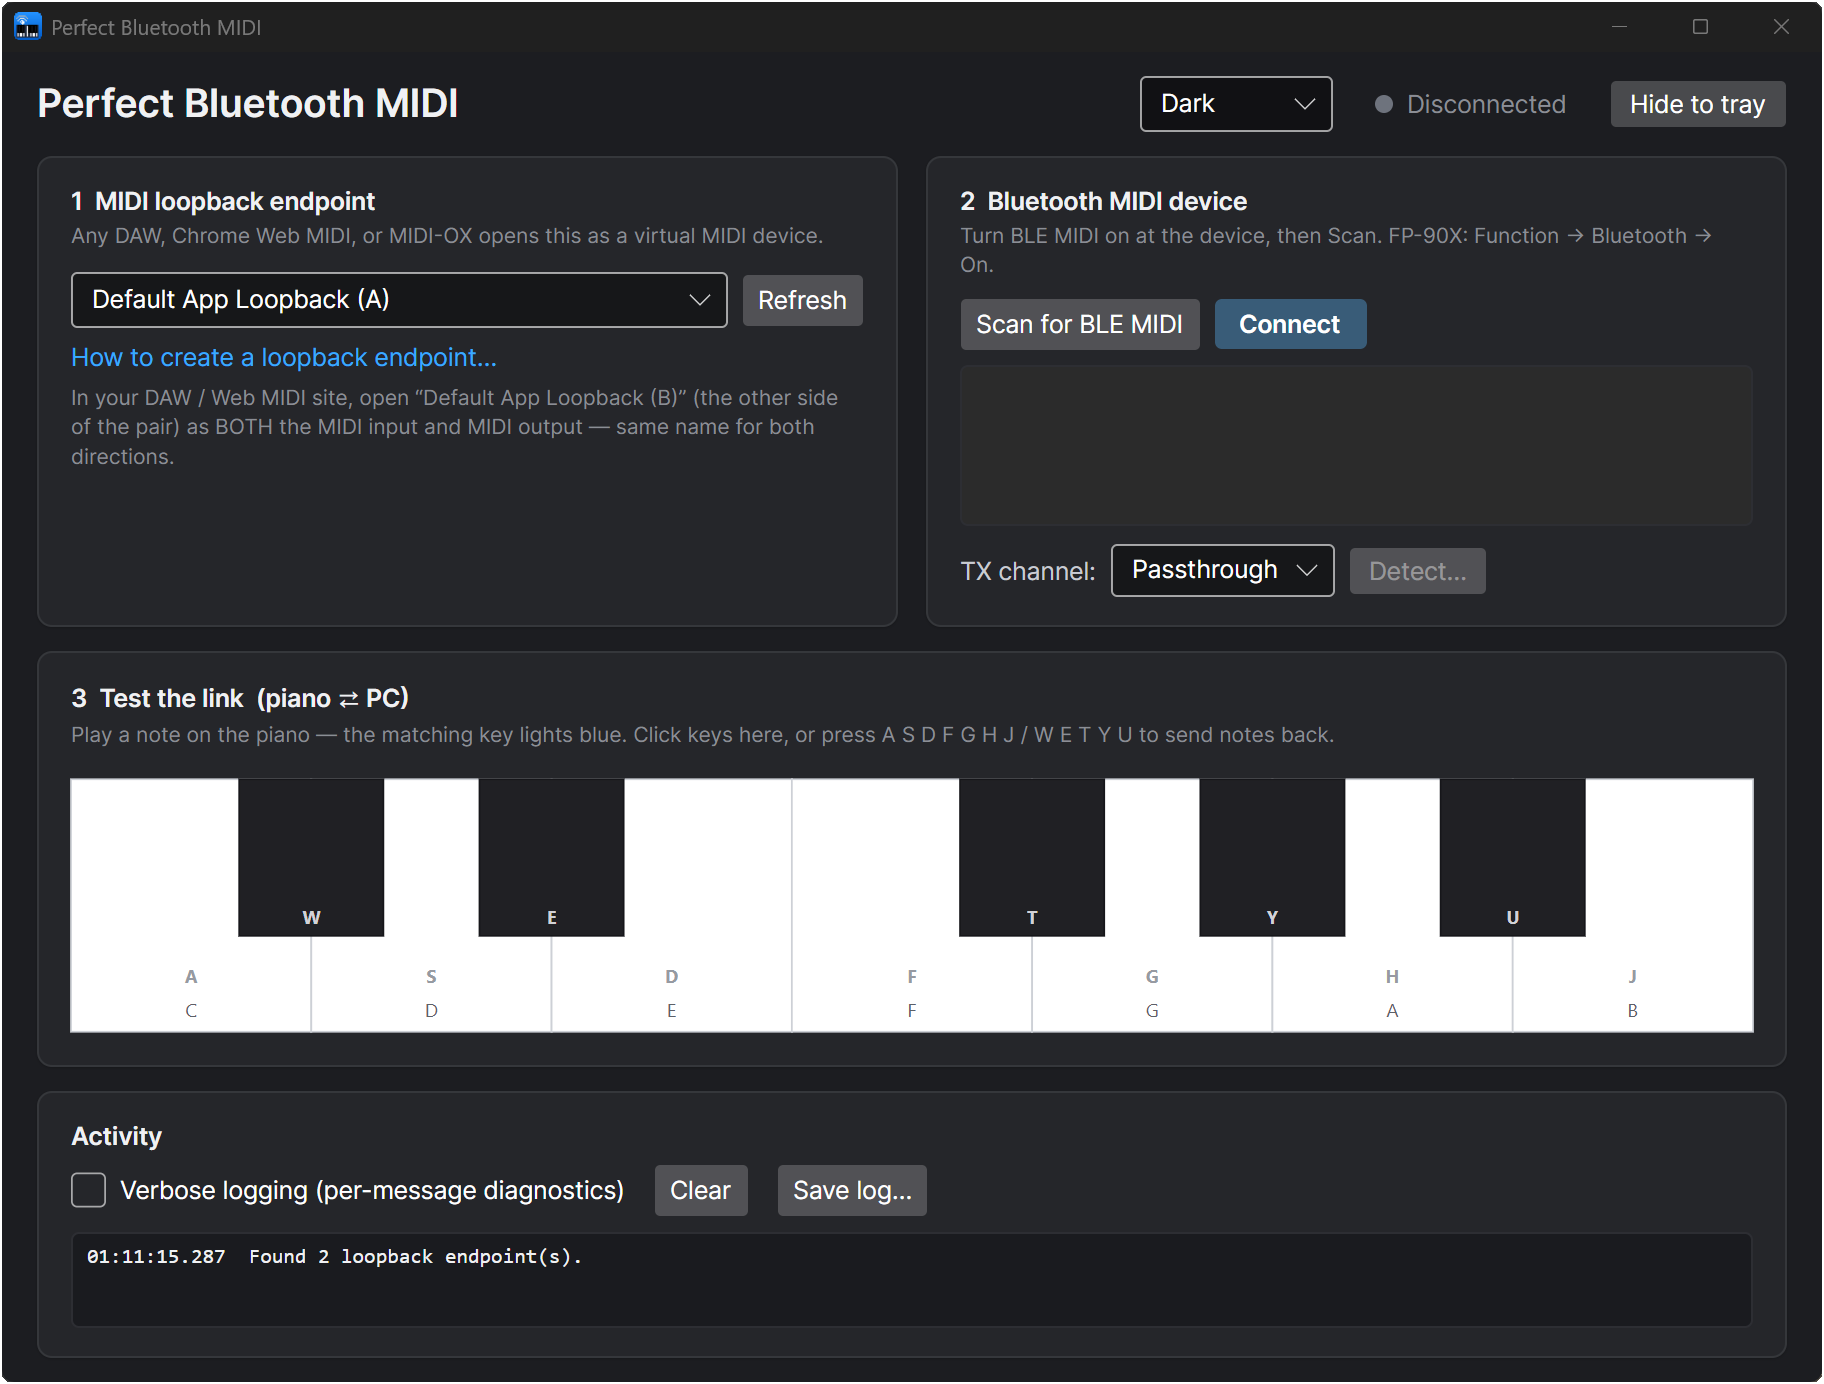
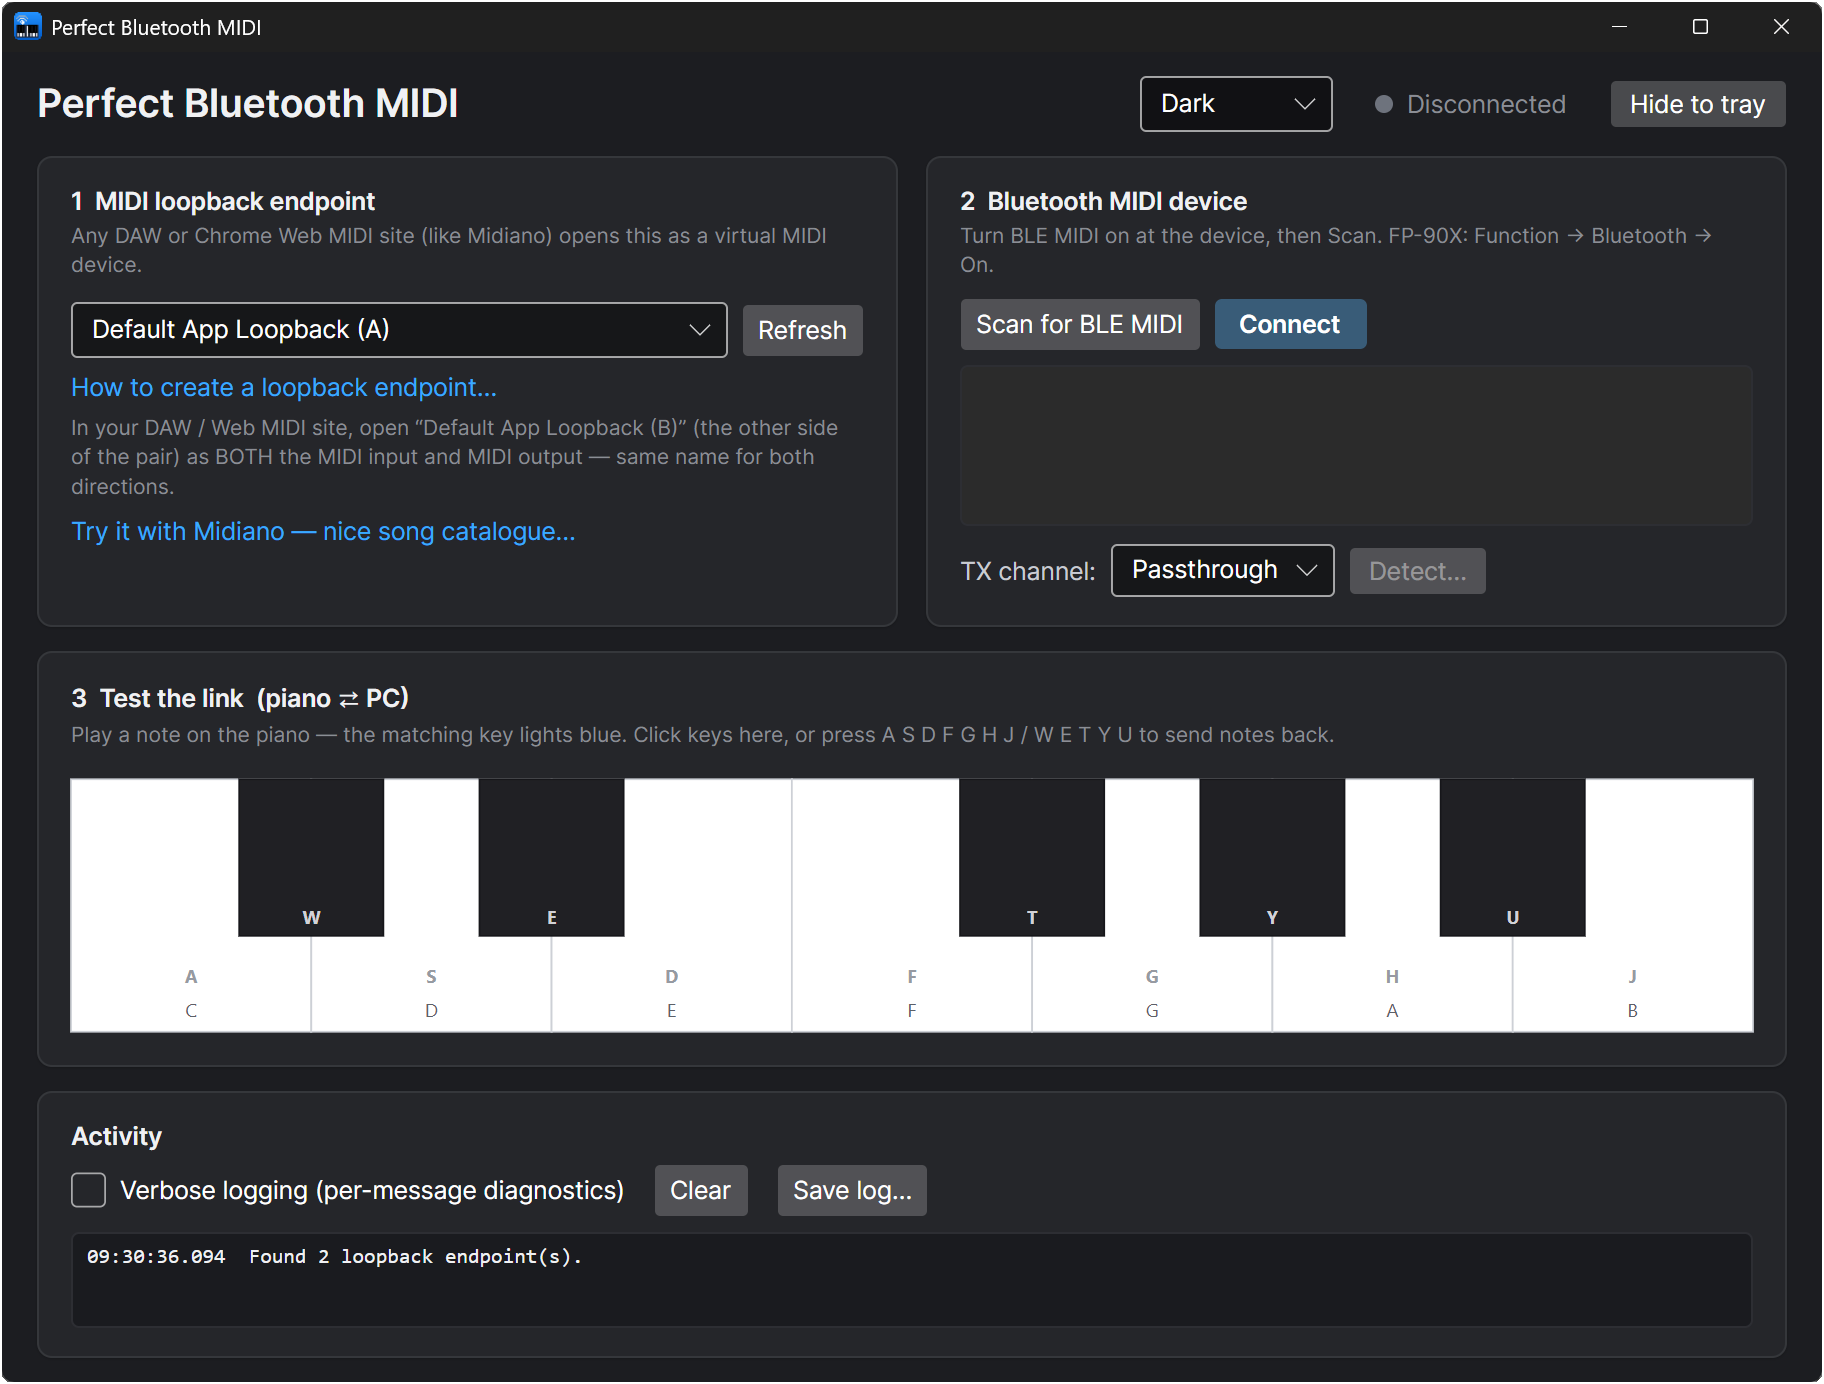
Sync README changes to site + app; re-snap screenshots

diff --git a/docs/index.html b/docs/index.html
@@ -294,8 +294,8 @@
     <p class="lede">
       A tiny Windows app that bridges a Bluetooth LE MIDI keyboard
       (Roland FP-90X, WIDI&nbsp;Master, CME, Yamaha&nbsp;MD-BT01, …) into the new
-      Windows MIDI Services stack — so any DAW, any Chrome Web&nbsp;MIDI site, any
-      MIDI-OX session can use it as if it were wired.
+      Windows MIDI Services stack — so any DAW or Chrome Web&nbsp;MIDI site
+      (like <a href="https://app.midiano.com/" target="_blank" rel="noopener">Midiano</a>) can use it as if it were wired.
     </p>
     <div class="cta-row">
       <a class="btn btn-primary" href="https://github.com/mayerwin/Perfect-Bluetooth-MIDI-For-Windows/releases/latest">
@@ -411,7 +411,7 @@
     <div class="highlight" style="margin-top:28px;">
       <h3>Try it with <a href="https://app.midiano.com/" target="_blank" rel="noopener">Midiano</a> <span class="badge">tip</span></h3>
       <p>
-        <a href="https://app.midiano.com/" target="_blank" rel="noopener">app.midiano.com</a> is a polished Chrome Web MIDI app with a huge searchable catalogue of songs that play themselves on your piano. Open it in Chrome / Edge, pick the opposite-side loopback endpoint (the app's card 1 tells you which name) as the MIDI output, and hit play on any song — your keyboard plays it. It's the fastest end-to-end test and honestly the most fun one.
+        <a href="https://app.midiano.com/" target="_blank" rel="noopener">app.midiano.com</a> is a beautiful Chrome Web MIDI app with a nice catalogue of songs that play themselves on your piano. Open it in Chrome / Edge, pick the opposite-side loopback endpoint (the app's card 1 tells you which name) as the MIDI output, and hit play on any song — your keyboard plays it.
       </p>
     </div>
   </div>
